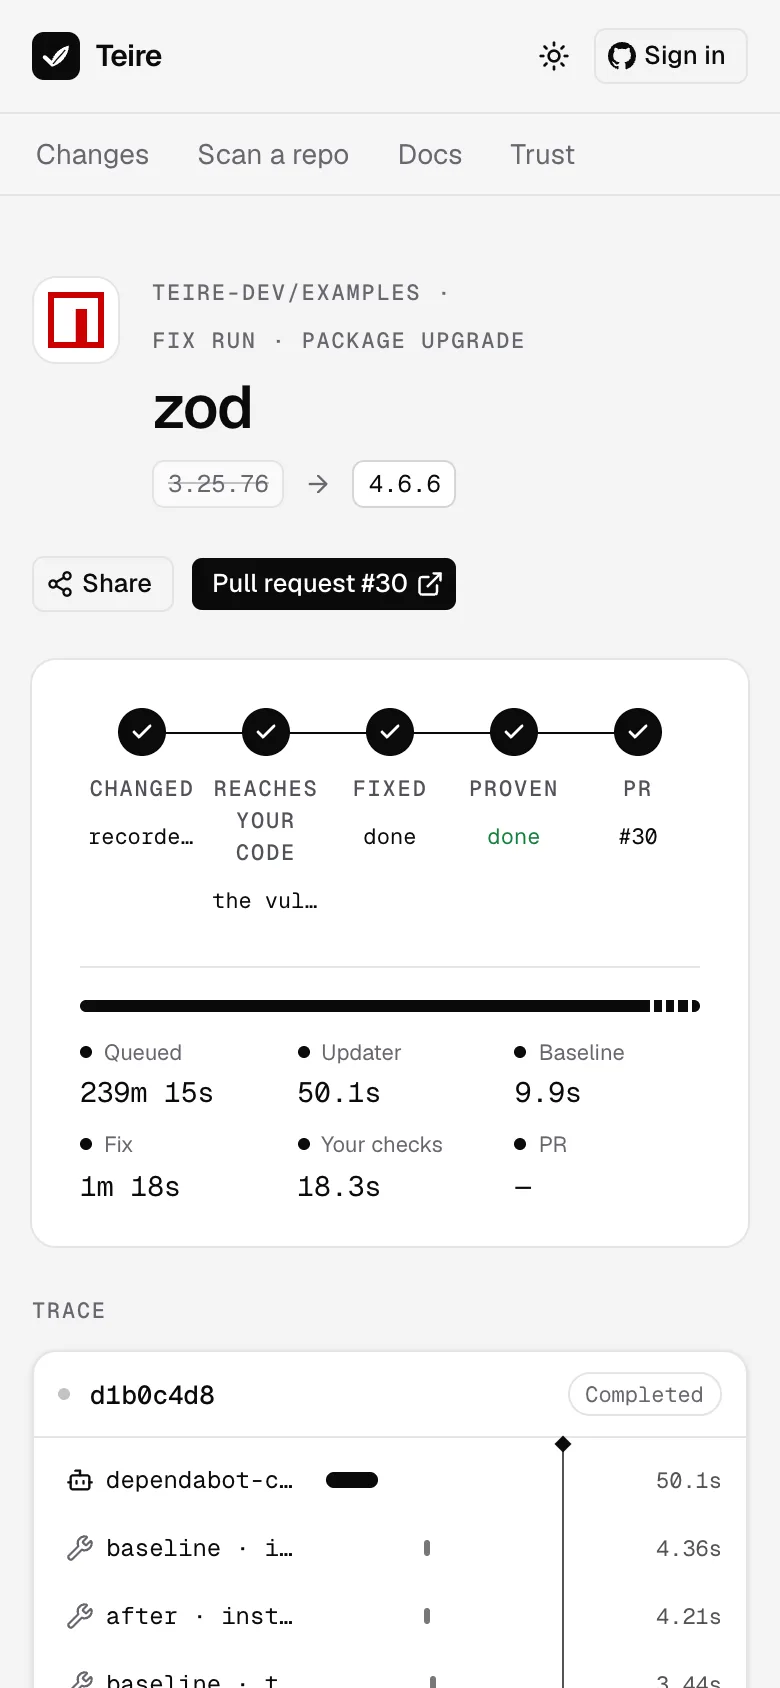
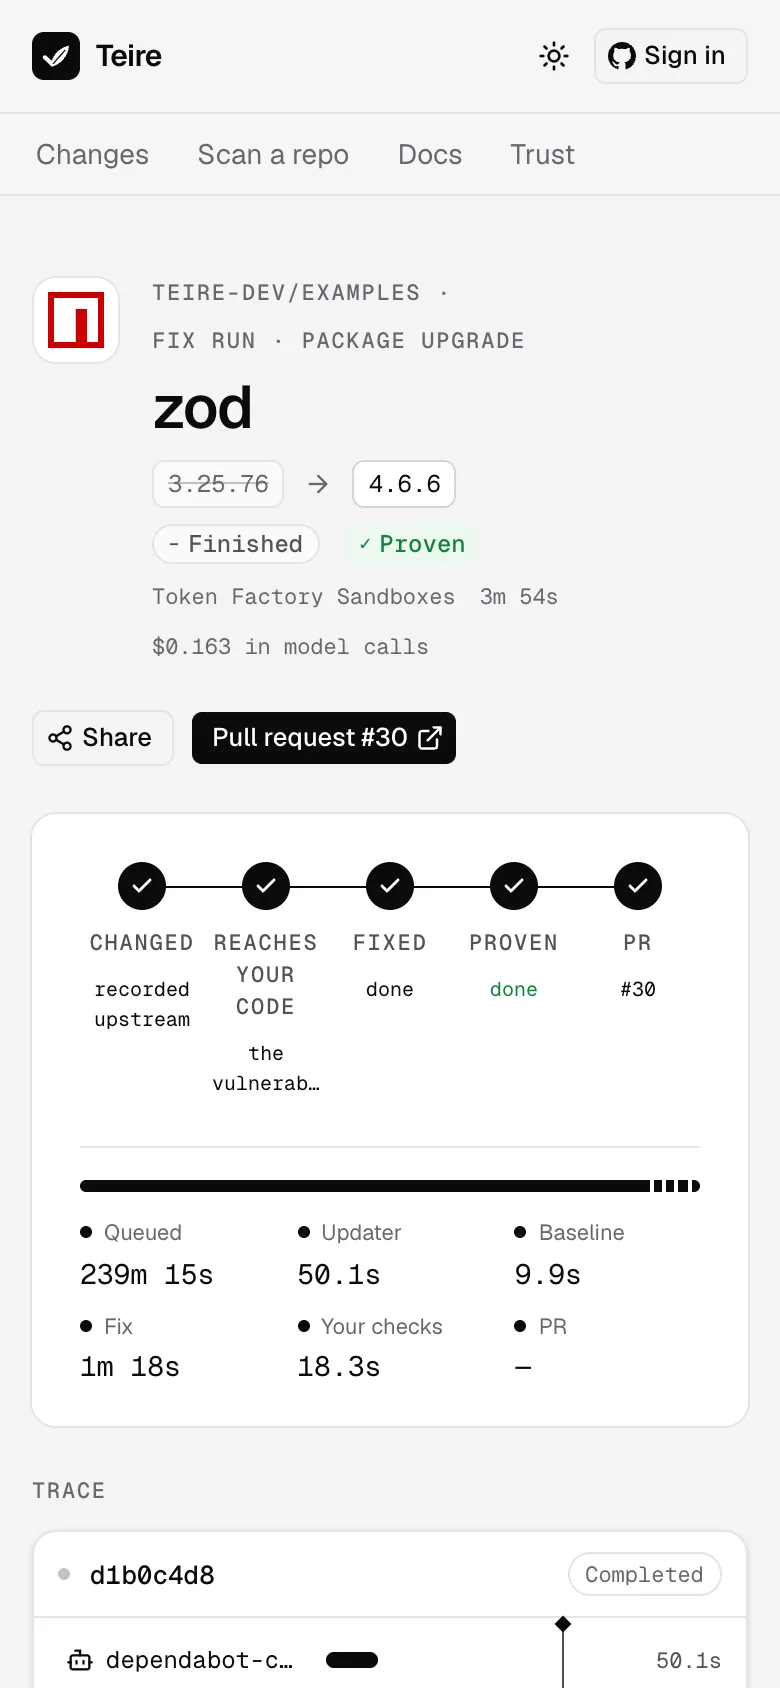
U2 walks recorded: Re-verify on nlsh #7 (the merge with today's base, verified, watched live without a reload), Open draft anyway on examples #25 (draft #31, unconfirmed), the Java re-walk (typecheck-only draft); new captures of the run page, a Re-verify shot in the dashboard docs; a finished run re

diff --git a/apps/web/components/run/sheet-parts.tsx b/apps/web/components/run/sheet-parts.tsx
@@ -399,7 +399,12 @@ export function RunFacts({ sheet }: { sheet: RunSheetData }) {
   const cost = Number(run.costUsd);
   return (
     <div className="flex flex-wrap items-center gap-x-3 gap-y-2 font-mono text-[11px] text-ink-3">
-      <StatusChip tone={status.tone}>{status.label}</StatusChip>
+      {/* A finished run's verdict is its evidence chip; the word alone says it ended. */}
+      {run.status === "succeeded" ? (
+        <span className="text-ink-2">{status.label}</span>
+      ) : (
+        <StatusChip tone={status.tone}>{status.label}</StatusChip>
+      )}
       {run.evidenceKind ? <EvidenceChip kind={run.evidenceKind} /> : null}
       {run.backend ? <span>{backendName(run.backend)}</span> : null}
       {ms !== null ? <span>{duration(ms)}</span> : null}

diff --git a/apps/worker/src/jobs/commands.ts b/apps/worker/src/jobs/commands.ts
@@ -344,7 +344,7 @@ export async function handleComment(ctx: EventContext, p: Payload) {
       const link = ctx.webUrl ? `: ${ctx.webUrl}/runs/${begun.run.id}` : ".";
       return void (await reply(
         begun.created
-          ? `Re-verifying #${begun.number} as it stands, before and after${link}`
+          ? `Re-verifying #${begun.number}: what it would merge into the base as it is now, before and after${link}`
           : `Already re-verifying${link}`,
       ));
     }

diff --git a/apps/worker/src/jobs/actions.ts b/apps/worker/src/jobs/actions.ts
@@ -359,7 +359,7 @@ async function repoAction(
       return {
         status: "started",
         result: begun.created
-          ? `Queued: #${begun.number} is checked again as it stands`
+          ? `Queued: #${begun.number} is checked again, merged into the base as it is now`
           : "Already re-verifying",
         links: [runLink(begun.run.id)],
       };
